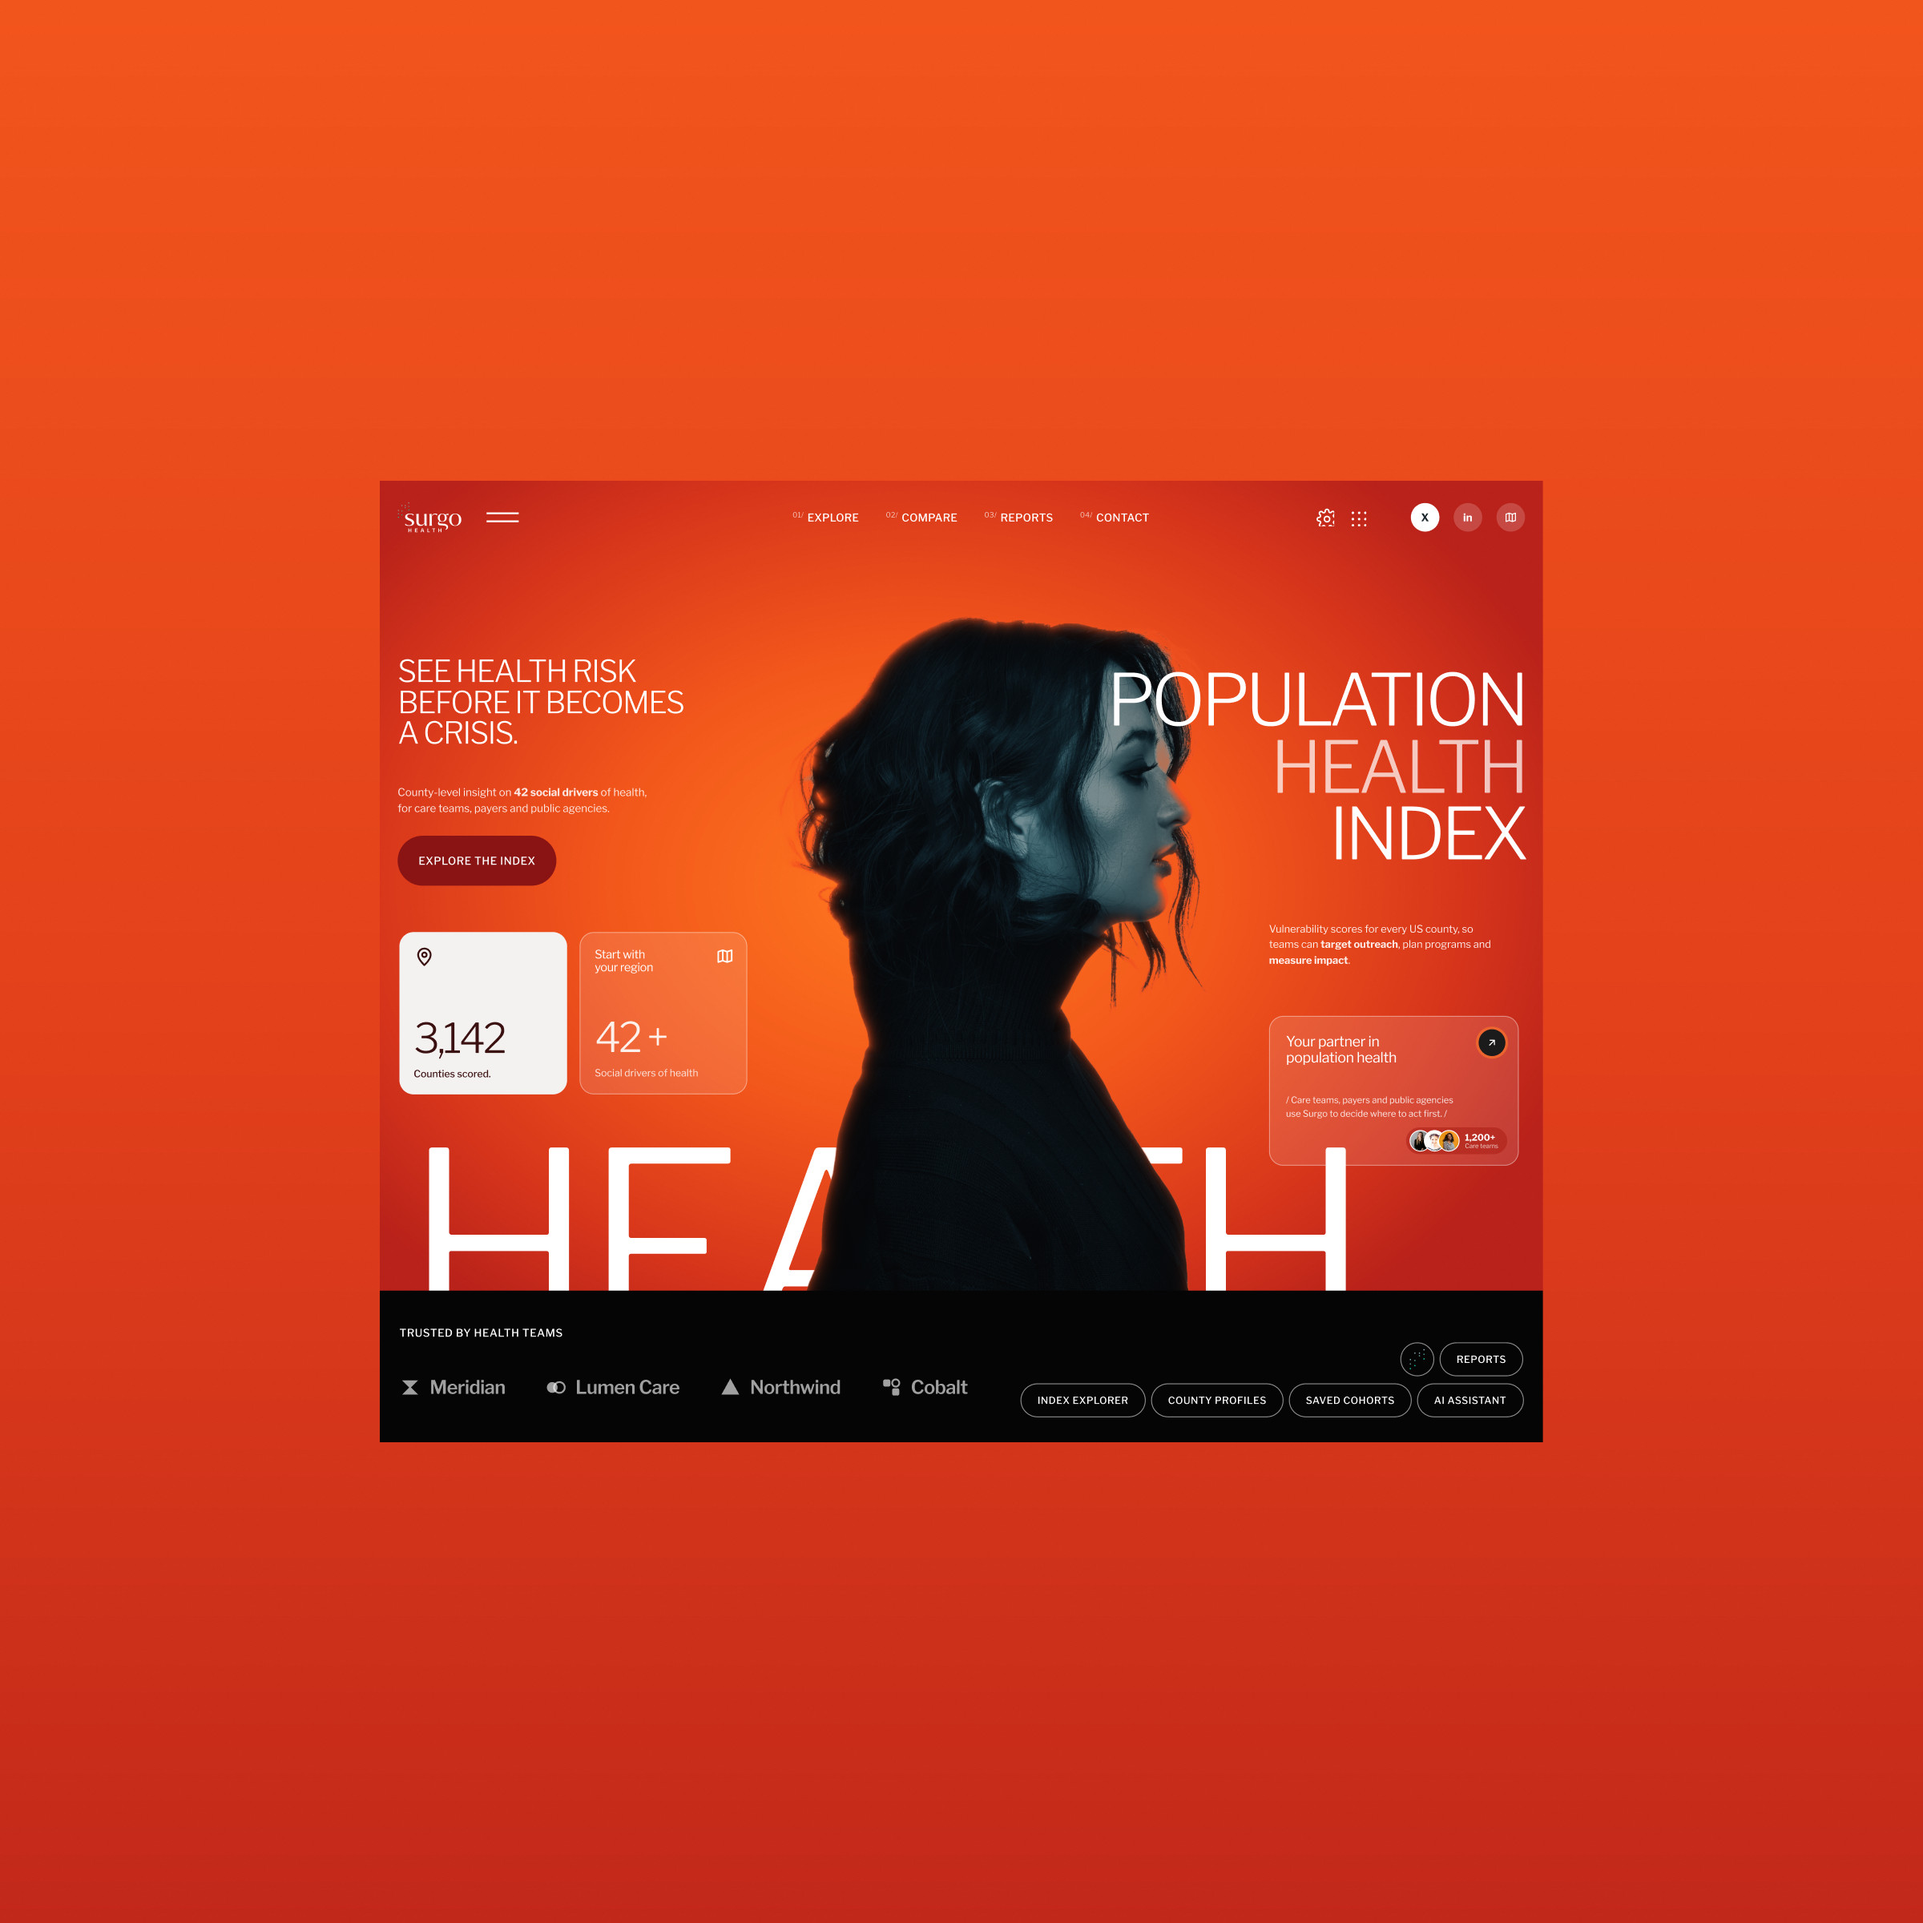
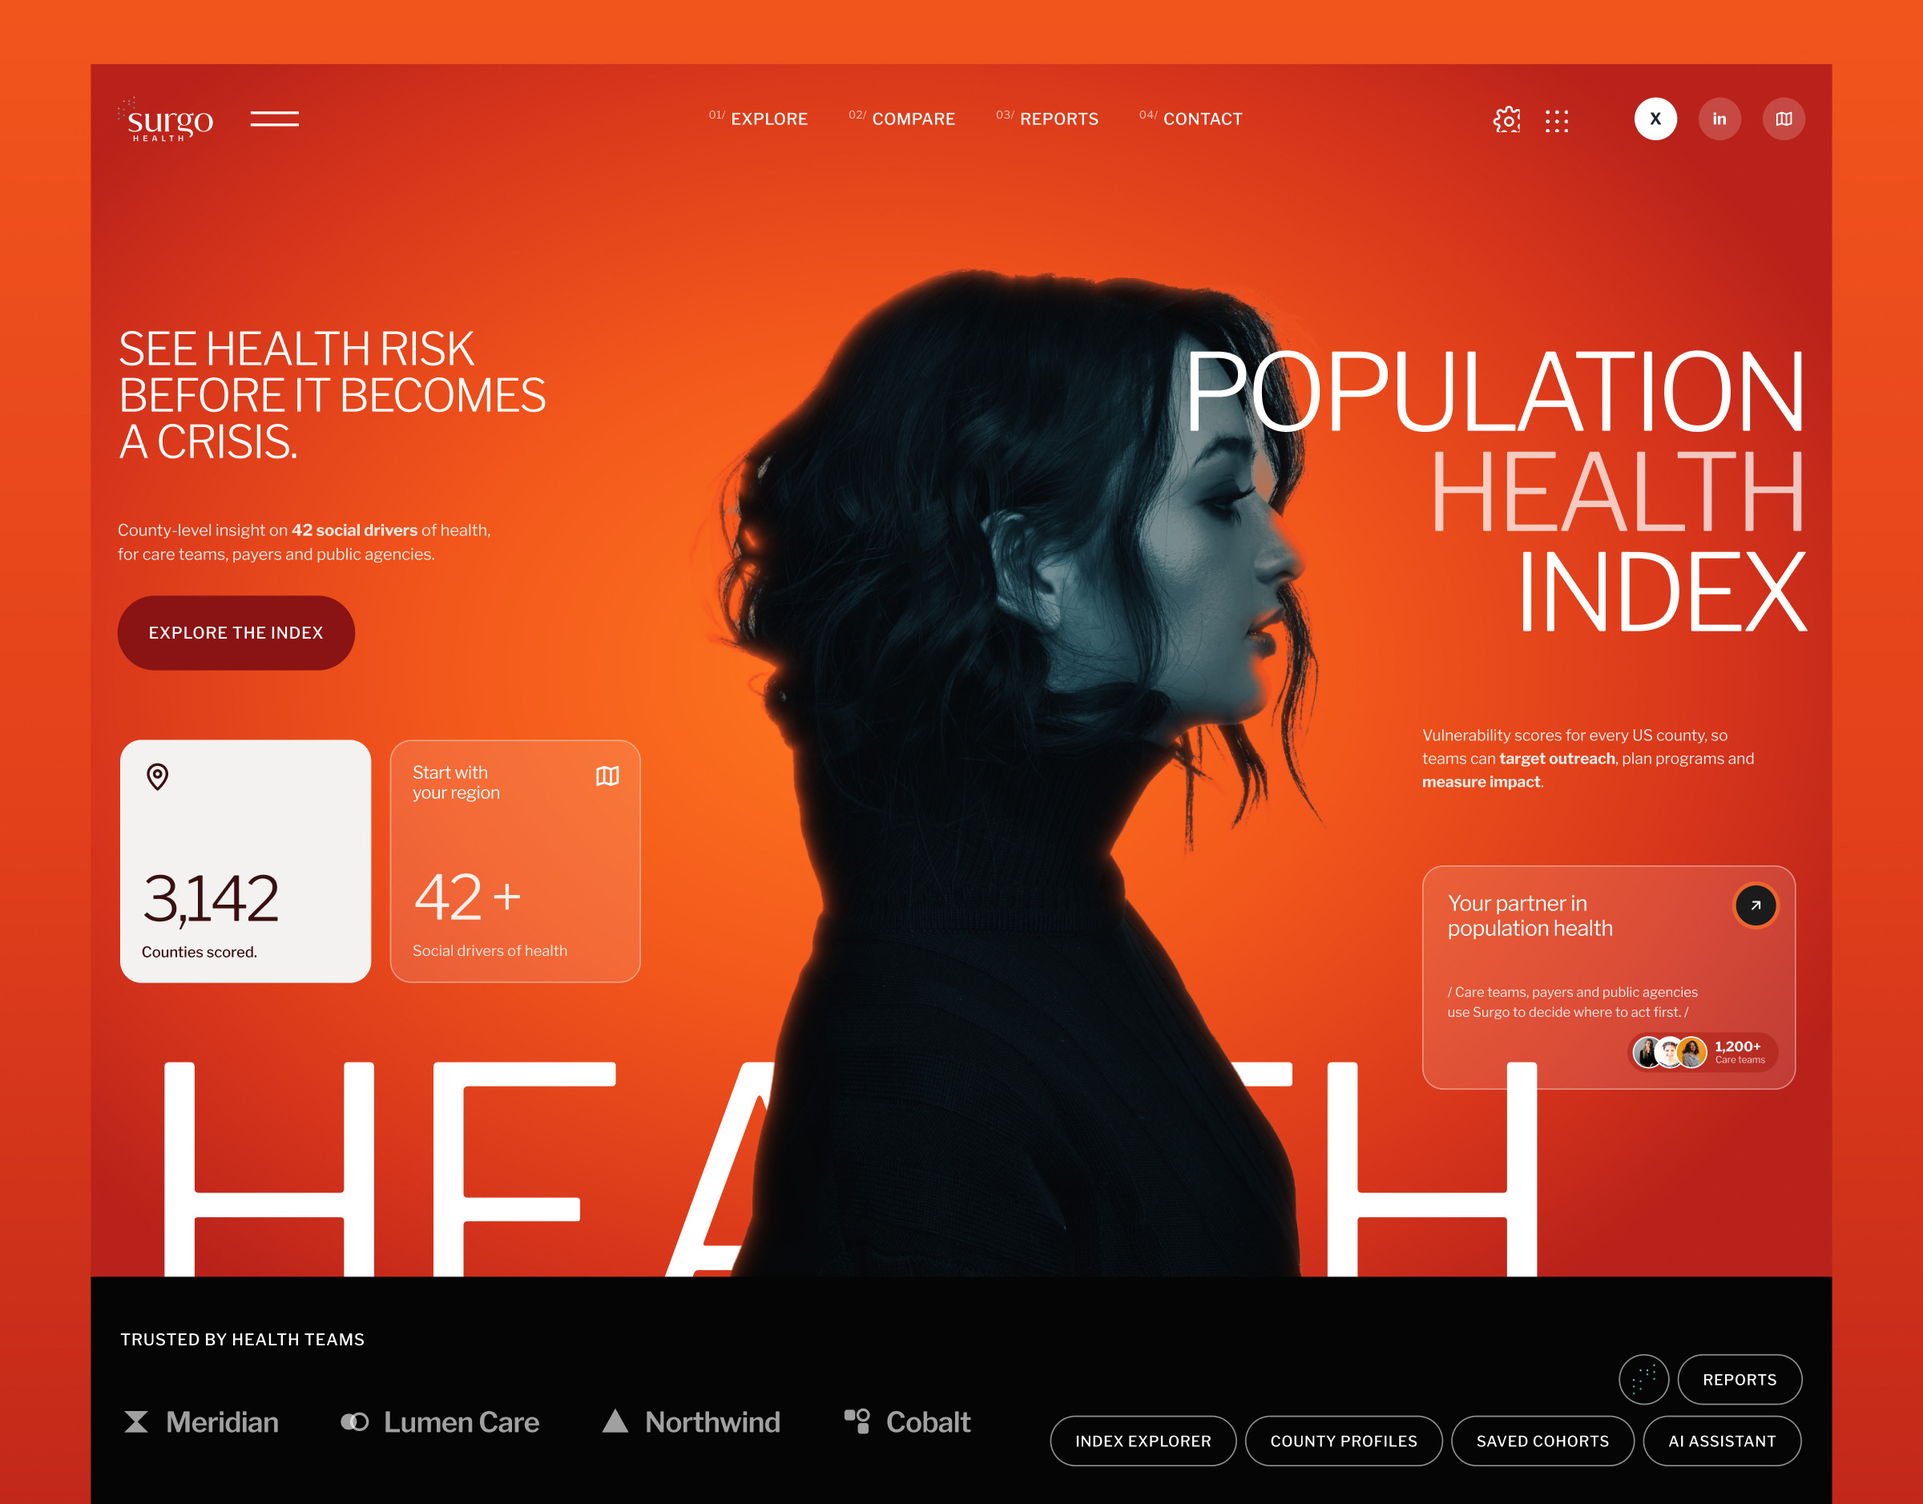
Surgo Health hero: the whole Figma frame, uncropped
Gallery images get a third size, Full width, uncropped: the image keeps
its own proportions on every screen. The Surgo hero uses it with the
original 1440 × 1126 frame at 2400px, so on phones the site design fills
the width instead of sitting small in a square.

Claude-Session: https://claude.ai/code/session_011BdSE2fEeiEv9ZgoYmWAPn

diff --git a/src/components/work/ProjectDetail.tsx b/src/components/work/ProjectDetail.tsx
@@ -154,7 +154,10 @@ export function ProjectDetail({
         </div>
         {hero && (
           <figure className="mx-gutter mt-[clamp(40px,calc(2.88vw+29.2px),92px)] overflow-hidden rounded-card bg-night">
-            <div className="relative aspect-square sm:aspect-video">
+            <div
+              className={cn("relative", hero.size !== "original" && "aspect-square sm:aspect-video")}
+              style={hero.size === "original" ? { aspectRatio: `${hero.width} / ${hero.height}` } : undefined}
+            >
               <CoverMedia
                 image={hero}
                 video={project.coverVideo}
@@ -196,7 +199,7 @@ export function ProjectDetail({
       {/* 4. The rest of the work, as big image cards with the same margins and
              gaps as the site's other cards: squares, one per row on phones and
              two per row from tablets up; a Full width image spans the row at
-             16:9 from tablets up. */}
+             16:9 from tablets up, and an uncropped one at its own proportions. */}
       {rest.length > 0 && (
         <section className="mt-section">
           <Section className="sr-only">More from {project.name}</Section>
@@ -205,9 +208,11 @@ export function ProjectDetail({
               <li key={img._key} data-reveal className={img.size === "half" ? "col-span-2 md:col-span-1" : "col-span-2"}>
                 <figure
                   className={cn(
-                    "relative aspect-square overflow-hidden rounded-card bg-night",
-                    img.size !== "half" && "md:aspect-video",
+                    "relative overflow-hidden rounded-card bg-night",
+                    img.size === "half" && "aspect-square",
+                    img.size === "full" && "aspect-square md:aspect-video",
                   )}
+                  style={img.size === "original" ? { aspectRatio: `${img.width} / ${img.height}` } : undefined}
                 >
                   <Media image={img} sizes={img.size === "half" ? "(min-width: 768px) 50vw, 100vw" : "100vw"} />
                   {img.caption && (

diff --git a/src/content/seed-data.ts b/src/content/seed-data.ts
@@ -973,12 +973,13 @@ const SAMPLE_GALLERY = [
  * A project's own mockups (public/work/<slug>): the image under the name
  * (<file>-0.jpg), then squares, two by two. The first shows 16:9 on wider
  * screens and square on phones, so a tall photo with its hotspot on the work
- * keeps the work whole in both.
+ * keeps the work whole in both; with size `original` it shows whole, at its
+ * own proportions.
  */
 const workGallery = (
   slug: string,
   file: string,
-  hero: { alt: string; width: number; height: number; hotspot: { x: number; y: number } },
+  hero: { alt: string; width: number; height: number; hotspot: { x: number; y: number }; size?: "full" | "original" },
   squares: string[],
   squareSize = 1200,
 ) => [
@@ -986,7 +987,7 @@ const workGallery = (
     ...img(`/work/${slug}/${file}-0.jpg`, hero.width, hero.height, hero.alt),
     hotspot: hero.hotspot,
     _key: `${file}-hero`,
-    size: "full" as const,
+    size: hero.size ?? ("full" as const),
   },
   ...squares.map((alt, i) => ({
     ...img(`/work/${slug}/${file}-${i + 1}.jpg`, squareSize, squareSize, alt),
@@ -1003,8 +1004,10 @@ const GALLERIES: Record<string, ReturnType<typeof workGallery>> = {
     {
       alt: "The Surgo Health home page for its Population Health Index",
       width: 2400,
-      height: 2400,
+      height: 1877,
       hotspot: { x: 0.5, y: 0.5 },
+      // The whole Figma frame on every screen, so the site design fills the width on phones.
+      size: "original",
     },
     [
       "The index explorer: every US county ranked on social drivers of health",

diff --git a/src/sanity/schemaTypes/documents/index.ts b/src/sanity/schemaTypes/documents/index.ts
@@ -376,7 +376,7 @@ export const project = defineType({
       type: "array",
       group: "media",
       description:
-        "The work, as big mockup cards. Six to ten images. The first shows under the name, 16:9 on wider screens and square on phones: use a tall or square photo and set its hotspot on the work so both crops keep it. The rest: squares (1400 × 1400) set to Half, two per row.",
+        "The work, as big mockup cards. Six to ten images. The first shows under the name, 16:9 on wider screens and square on phones: use a tall or square photo and set its hotspot on the work so both crops keep it, or set it to Full width, uncropped to show the whole image at its own proportions. The rest: squares (1400 × 1400) set to Half, two per row.",
       of: [
         defineArrayMember({
           type: "image",
@@ -391,6 +391,7 @@ export const project = defineType({
                 list: [
                   { title: "Full width", value: "full" },
                   { title: "Half (side by side)", value: "half" },
+                  { title: "Full width, uncropped", value: "original" },
                 ],
                 layout: "radio",
                 direction: "horizontal",

diff --git a/src/lib/types.ts b/src/lib/types.ts
@@ -79,7 +79,8 @@ export type ProjectCard = {
   summary?: string | null;
 };
 
-export type GalleryItem = Img & { _key: string; size: "full" | "half"; caption?: string | null };
+/** `original`: full width at the image's own proportions, never cropped. */
+export type GalleryItem = Img & { _key: string; size: "full" | "half" | "original"; caption?: string | null };
 
 export type ProjectStat = { _key?: string; value: string; label: string };
 
